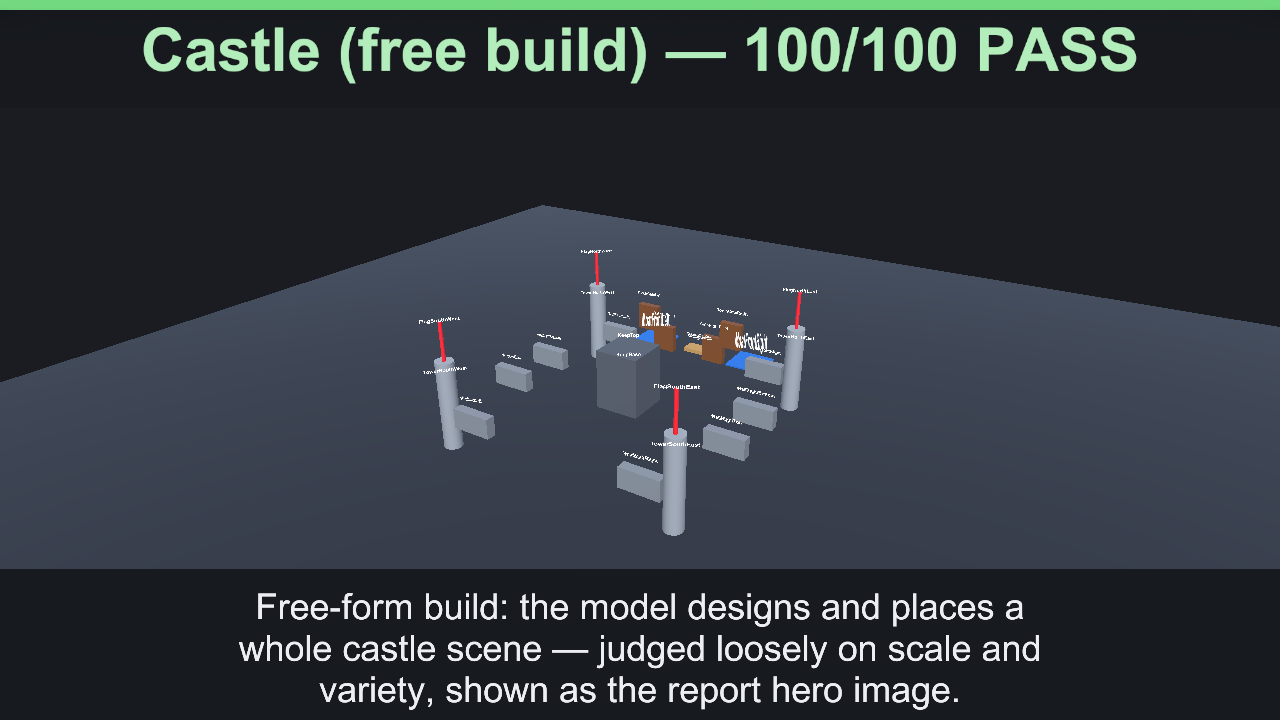
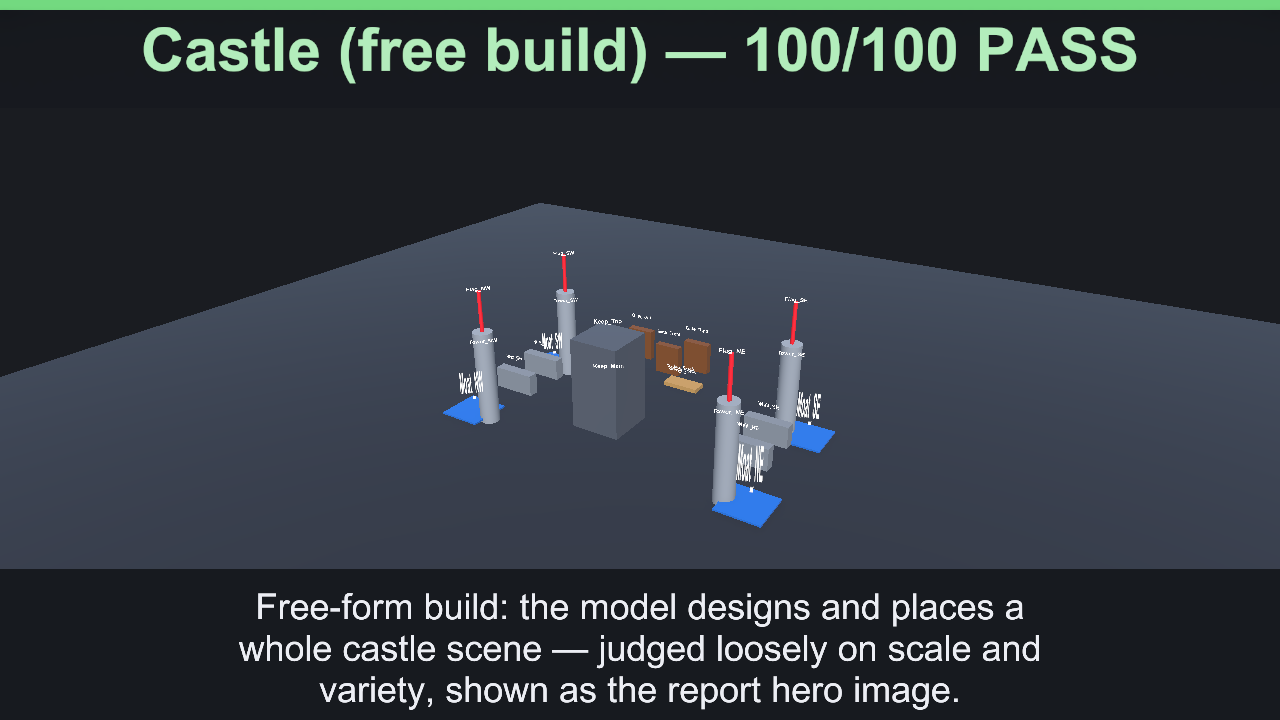
docs(benchmark): refresh ranking + examples for the reps=3 averaged run; mean/Models-tab fixes
- README + Docs/BENCHMARK.md ranking tables updated to the reps=3 (averaged) 8-model run
- Docs/Images examples refreshed (comparison chart, heretic model card, castle hero, scene)
- BENCHMARK.md: median -> mean wording, four tabs incl. Models, non-repeatable G6 note

diff --git a/Docs/BENCHMARK.md b/Docs/BENCHMARK.md
@@ -44,7 +44,7 @@ Verdicts:
 | PARTIAL | Base score from 50 to 89. |
 | FAIL | Base score below 50. |
 
-When repetitions are enabled, each scenario is run multiple times and the suite score uses the per-scenario median base score. This makes rankings less sensitive to one noisy local-model run.
+When repetitions are enabled, each scenario is run multiple times and the suite score uses the per-scenario **mean (average)** base score over its repetitions. This makes rankings less sensitive to one noisy local-model run. A purely visual one-off such as the G6 castle hero is marked non-repeatable, so it always runs exactly once even when the rest of the suite repeats.
 
 ## Game-Fitness Roles
 
@@ -78,12 +78,13 @@ Open the UI Toolkit benchmark window from:
 
 `CoreAI/Benchmarks/Benchmark Window (UITK)...`
 
-The window has three tabs:
+The window has four tabs, plus toolbar **Open folder** / **Open report** shortcuts:
 
 | Tab | Purpose |
 |---|---|
-| Run | Choose model/base URL overrides, scenario groups, repetitions, retries, timeout override, and start a run. |
+| Run | Choose model/base URL overrides, scenario groups (G1-G6), repetitions, retries, timeout override, and start a run. |
 | History | Browse past runs grouped by model, inspect dimension/role scores, open reports, and view captured scene thumbnails. |
+| Models | A sortable leaderboard of the newest run per model, ranked by suite score, speed, pass-rate, or game-fit. |
 | Compare | Select the newest JSON reports per model, optionally pin one model first, and build `COMPARISON.md` plus `COMPARISON.svg`. |
 
 For a one-click run, use:
@@ -110,7 +111,7 @@ Environment shaping is also supported:
 | `COREAI_TEST_API_KEY` | API key when required; local LM Studio normally leaves this empty. |
 | `COREAI_TEST_MODEL` | Model id to request. |
 | `COREAI_BENCHMARK_GROUPS` | CSV group filter, such as `G1,G2,G6`; empty means all groups. |
-| `COREAI_BENCHMARK_REPS` | Repetitions per scenario. Use 3-5 for median stability when comparing local models. |
+| `COREAI_BENCHMARK_REPS` | Repetitions per scenario (averaged). Use 3-5 to smooth out a noisy local-model run. |
 
 For an LM Studio multi-model sweep, load one model at a time, run the benchmark, unload it, and move to the next model. Example structure:
 
@@ -170,11 +171,11 @@ Example 8-model ranking from `TestResults/CoreAI/Benchmarks/COMPARISON.md`:
 
 | # | Model | Suite | Pass-rate | P/PA/F | Tools | Intent | Task | Determ | Reason | Instr | Eff | Tool-err | Tokens | Run |
 |---:|---|---:|---:|---|---:|---:|---:|---:|---:|---:|---:|---:|---:|---|
-| 1 | `qwen3.6-27b-heretic-uncensored-finetune-neo-code-di-imatrix-max` | **94.8** | 87.5% | 21/2/1 | 91.7 | 96.3 | 100 | 100 | 100 | 88.9 | 2.2 | 10.3% | 38219 | `20260629_220051` |
-| 2 | `qwen3.5-4b-mtp` | **88.8** | 75% | 18/3/3 | 88.9 | 100 | 89.9 | 100 | 88.9 | 72.2 | 4.6 | 20.6% | 38833 | `20260629_212832` |
-| 3 | `deepreinforce-ai_ornith-1.0-9b` | **84.4** | 70.8% | 17/3/4 | 75 | 94.1 | 89.6 | 100 | 66.7 | 88.9 | 3.6 | 43.3% | 35436 | `20260629_213245` |
-| 4 | `qwen3.6-27b-fable-5-experimental` | **82.2** | 66.7% | 16/3/5 | 76.9 | 94.1 | 80.4 | 100 | 88.9 | 100 | 2.3 | 46.4% | 38785 | `20260629_214659` |
-| 5 | `qwen3.5-2b` | **82.1** | 75% | 18/2/4 | 83.3 | 82.4 | 81.3 | 0 | 63 | 100 | 5.2 | 26.5% | 29793 | `20260629_212524` |
-| 6 | `qwythos-9b-claude-mythos-5-1m` | **79.1** | 75% | 18/1/5 | 72.2 | 82.4 | 83.3 | 100 | 66.7 | 88.9 | 4.6 | 39.7% | 39010 | `20260629_214115` |
-| 7 | `qwen3.5-0.8b` | **53.7** | 37.5% | 9/4/11 | 86.1 | 66.9 | 74.1 | 50 | 35.6 | 55.6 | 3.1 | 10.2% | 20084 | `20260629_212253` |
-| 8 | `lfm2-8b-a1b` | **12.3** | 0% | 0/0/24 | 50 | 2.2 | 0 | 0 | 0 | 72.2 | 0 | 0% | 31140 | `20260629_212725` |
+| 1 | `qwen3.6-27b-heretic-uncensored-finetune-neo-code-di-imatrix-max` | **97.2** | 91.7% | 22/2/0 | 90.7 | 97.5 | 100 | 100 | 100 | 96.3 | 2.6 | 12.9% | 106463 | `20260630_015516` |
+| 2 | `qwen3.5-4b-mtp` | **91.1** | 79.2% | 19/3/2 | 88 | 98 | 94.2 | 100 | 96.3 | 77.8 | 4.8 | 24.7% | 111193 | `20260630_000446` |
+| 3 | `deepreinforce-ai_ornith-1.0-9b` | **88.4** | 62.5% | 15/7/2 | 74.1 | 100 | 93.8 | 100 | 88.9 | 88.9 | 3.1 | 54.7% | 97583 | `20260630_001730` |
+| 4 | `qwythos-9b-claude-mythos-5-1m` | **86.2** | 75% | 18/3/3 | 82.4 | 89 | 89.3 | 83.3 | 77.8 | 88.9 | 4.9 | 18.3% | 117850 | `20260630_004250` |
+| 5 | `qwen3.6-27b-fable-5-experimental` | **83.9** | 70.8% | 17/3/4 | 78.7 | 80.4 | 84.7 | 50 | 81.5 | 94.4 | 2.5 | 19.1% | 126110 | `20260630_012400` |
+| 6 | `qwen3.5-2b` | **79.4** | 70.8% | 17/1/6 | 88.9 | 86.3 | 78.6 | 50 | 50.6 | 91.7 | 4.9 | 22.7% | 97549 | `20260629_235827` |
+| 7 | `qwen3.5-0.8b` | **51.2** | 33.3% | 8/4/12 | 83.3 | 61 | 70.6 | 50 | 37.3 | 55.6 | 3.2 | 12.1% | 52315 | `20260629_235214` |
+| 8 | `lfm2-8b-a1b` | **12.3** | 0% | 0/0/24 | 50 | 2.2 | 0 | 0 | 0 | 72.2 | 0 | 0% | 87038 | `20260630_000238` |

diff --git a/README.md b/README.md
@@ -94,14 +94,14 @@ CoreAI includes a local game-creation benchmark that measures how well an LLM bu
 
 | # | Model | Suite | Pass-rate | P/PA/F | Tools | Intent | Task | Determ | Reason | Instr | Eff | Tool-err | Tokens | Run |
 |---:|---|---:|---:|---|---:|---:|---:|---:|---:|---:|---:|---:|---:|---|
-| 1 | `qwen3.6-27b-heretic-uncensored-finetune-neo-code-di-imatrix-max` | **94.8** | 87.5% | 21/2/1 | 91.7 | 96.3 | 100 | 100 | 100 | 88.9 | 2.2 | 10.3% | 38219 | `20260629_220051` |
-| 2 | `qwen3.5-4b-mtp` | **88.8** | 75% | 18/3/3 | 88.9 | 100 | 89.9 | 100 | 88.9 | 72.2 | 4.6 | 20.6% | 38833 | `20260629_212832` |
-| 3 | `deepreinforce-ai_ornith-1.0-9b` | **84.4** | 70.8% | 17/3/4 | 75 | 94.1 | 89.6 | 100 | 66.7 | 88.9 | 3.6 | 43.3% | 35436 | `20260629_213245` |
-| 4 | `qwen3.6-27b-fable-5-experimental` | **82.2** | 66.7% | 16/3/5 | 76.9 | 94.1 | 80.4 | 100 | 88.9 | 100 | 2.3 | 46.4% | 38785 | `20260629_214659` |
-| 5 | `qwen3.5-2b` | **82.1** | 75% | 18/2/4 | 83.3 | 82.4 | 81.3 | 0 | 63 | 100 | 5.2 | 26.5% | 29793 | `20260629_212524` |
-| 6 | `qwythos-9b-claude-mythos-5-1m` | **79.1** | 75% | 18/1/5 | 72.2 | 82.4 | 83.3 | 100 | 66.7 | 88.9 | 4.6 | 39.7% | 39010 | `20260629_214115` |
-| 7 | `qwen3.5-0.8b` | **53.7** | 37.5% | 9/4/11 | 86.1 | 66.9 | 74.1 | 50 | 35.6 | 55.6 | 3.1 | 10.2% | 20084 | `20260629_212253` |
-| 8 | `lfm2-8b-a1b` | **12.3** | 0% | 0/0/24 | 50 | 2.2 | 0 | 0 | 0 | 72.2 | 0 | 0% | 31140 | `20260629_212725` |
+| 1 | `qwen3.6-27b-heretic-uncensored-finetune-neo-code-di-imatrix-max` | **97.2** | 91.7% | 22/2/0 | 90.7 | 97.5 | 100 | 100 | 100 | 96.3 | 2.6 | 12.9% | 106463 | `20260630_015516` |
+| 2 | `qwen3.5-4b-mtp` | **91.1** | 79.2% | 19/3/2 | 88 | 98 | 94.2 | 100 | 96.3 | 77.8 | 4.8 | 24.7% | 111193 | `20260630_000446` |
+| 3 | `deepreinforce-ai_ornith-1.0-9b` | **88.4** | 62.5% | 15/7/2 | 74.1 | 100 | 93.8 | 100 | 88.9 | 88.9 | 3.1 | 54.7% | 97583 | `20260630_001730` |
+| 4 | `qwythos-9b-claude-mythos-5-1m` | **86.2** | 75% | 18/3/3 | 82.4 | 89 | 89.3 | 83.3 | 77.8 | 88.9 | 4.9 | 18.3% | 117850 | `20260630_004250` |
+| 5 | `qwen3.6-27b-fable-5-experimental` | **83.9** | 70.8% | 17/3/4 | 78.7 | 80.4 | 84.7 | 50 | 81.5 | 94.4 | 2.5 | 19.1% | 126110 | `20260630_012400` |
+| 6 | `qwen3.5-2b` | **79.4** | 70.8% | 17/1/6 | 88.9 | 86.3 | 78.6 | 50 | 50.6 | 91.7 | 4.9 | 22.7% | 97549 | `20260629_235827` |
+| 7 | `qwen3.5-0.8b` | **51.2** | 33.3% | 8/4/12 | 83.3 | 61 | 70.6 | 50 | 37.3 | 55.6 | 3.2 | 12.1% | 52315 | `20260629_235214` |
+| 8 | `lfm2-8b-a1b` | **12.3** | 0% | 0/0/24 | 50 | 2.2 | 0 | 0 | 0 | 72.2 | 0 | 0% | 87038 | `20260630_000238` |
 
 [Full benchmark guide → Docs/BENCHMARK.md](Docs/BENCHMARK.md)
 
